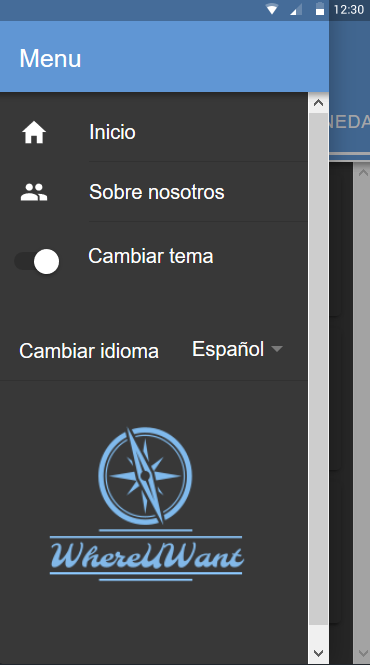
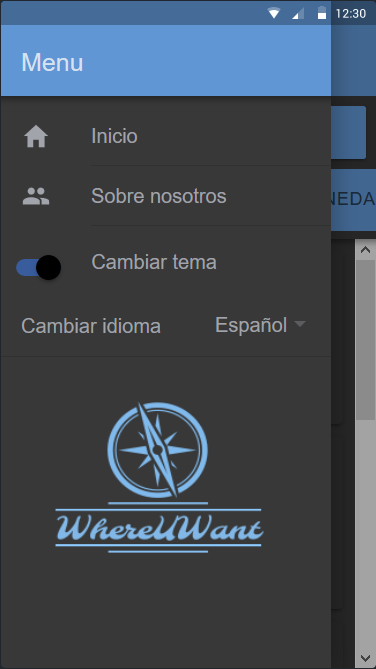
arreglo select
hemos arreglado el select, cambiado algunos estilos del servicio y  variables scss

diff --git a/src/app/home/home.page.html b/src/app/home/home.page.html
@@ -1,10 +1,10 @@
-<ion-header>
+<ion-header >
   <ion-toolbar class="toolbar">
     <ion-buttons slot="start">
       <ion-menu-button class="menu">
         <img src="assets/Menu.png" class="menu" >
       </ion-menu-button>
-      <ion-title style="color: #ffffff" lines="none">
+      <ion-title style="color: var(--ion-title-text)" lines="none">
         WhereUWant 
       </ion-title> 
     </ion-buttons>
@@ -20,11 +20,11 @@
   color="light">
   <ion-segment-button layout="icon-start" value="0" style="--padding-end:0px;--padding-start:0px">
     <ion-icon name="rocket" style="margin-right:1px;zoom:0.8"></ion-icon>
-    <ion-label>{{"Vuelos" | translate}}</ion-label>
+    <ion-label >{{"Vuelos" | translate}}</ion-label>
   </ion-segment-button>
   <ion-segment-button layout="icon-start" value="1" style="--padding-end:2px;--padding-start:0px">
     <ion-icon name="bed" style="margin-right:0px;zoom:0.8"></ion-icon>
-    <ion-label>{{"Hoteles" | translate}}</ion-label>
+    <ion-label >{{"Hoteles" | translate}}</ion-label>
   </ion-segment-button>
  <ion-segment-button layout="icon-start" value="2" style="--padding-end:0px;--padding-start:0px">
         <ion-icon name="cash" style="margin-right:1px;zoom:0.8"></ion-icon>
@@ -51,7 +51,7 @@ style="margin-top:2px">
     <ion-card *ngFor="let item of listadoPanelVuelos;let i = index" >
       <ion-card-header>
         <ion-buttons>
-            <ion-card-title color="primary" >{{item.aerolinea}}</ion-card-title>
+            <ion-card-title style="color: var(--ion-card-text)" >{{item.aerolinea}}</ion-card-title>
         </ion-buttons>
     </ion-card-header>
     <ion-card-content >
@@ -66,7 +66,7 @@ style="margin-top:2px">
       <img src="{{item.foto}}"/>
       <ion-card-header>
         <ion-buttons>
-            <ion-card-title color="primary" >{{item.nombre}}  
+            <ion-card-title style="color: var(--ion-card-text)">{{item.nombre}}  
               {{item.destinoMa | translate}}
             </ion-card-title>
         </ion-buttons>
@@ -82,7 +82,7 @@ style="margin-top:2px">
     <ion-card *ngFor="let item of listadoPanelMoneda;let i = index" >
       <ion-card-header>
         <ion-buttons>
-            <ion-card-title color="primary">{{item.moneda | translate}}</ion-card-title>
+            <ion-card-title  style="color: var(--ion-card-text)">{{item.moneda | translate}}</ion-card-title>
         </ion-buttons>
     </ion-card-header>
     <ion-card-content >

diff --git a/src/app/app.component.html b/src/app/app.component.html
@@ -3,24 +3,24 @@
     <ion-menu>
       <ion-header >
         <ion-toolbar>
-          <ion-title style="color: #ffffff" >Menu</ion-title>
+          <ion-title style="color: var(--ion-title-text)">Menu</ion-title>
         </ion-toolbar>
       </ion-header>
       <ion-content class="prueba1">
         <ion-list>
           <ion-menu-toggle auto-hide="false" *ngFor="let p of appPages">
             <ion-item  [routerDirection]="'root'" [routerLink]="[p.url]">
-              <ion-icon slot="start" color="primary" [name]="p.icon"></ion-icon>
-                <ion-label >
+              <ion-icon slot="start"  style="color: var(--ion-card-text)" [name]="p.icon"></ion-icon>
+                <ion-label  style="color: var(--ion-card-text)" >
                   {{p.title | translate }}
                 </ion-label>
               </ion-item>
             </ion-menu-toggle>
-          <ion-toggle slot="end"  (ionChange)="cambiarTema($event)"></ion-toggle>
-          <ion-label class="temaO" color="primary">{{"Cambiar tema" | translate}}</ion-label>
+          <ion-toggle slot="end"   (ionChange)="cambiarTema($event)"></ion-toggle>
+          <ion-label class="temaO" style="color: var(--ion-card-text)">{{"Cambiar tema" | translate}}</ion-label>
         <ion-item >
-        <ion-label >{{"Cambiar idioma" | translate}}</ion-label>
-          <ion-select [okText]="this.translate.instant('Aceptar')" [cancelText]="this.translate.instant('Cancelar')" placeholder="Idioma" (ionChange)="changeLang($event)">
+        <ion-label  style="color: var(--ion-card-text)" >{{"Cambiar idioma" | translate}}</ion-label>
+          <ion-select  style="color: var(--ion-card-text)"  [okText]="this.translate.instant('Aceptar')" [cancelText]="this.translate.instant('Cancelar')" placeholder="Idioma" (ionChange)="changeLang($event)">
               <ion-select-option selected="selected" value="es">{{"Español" | translate}}</ion-select-option>
               <ion-select-option  value="en">{{"Ingles" | translate }}</ion-select-option>
               <ion-select-option  value="tr">{{"Turco" | translate}}</ion-select-option>

diff --git a/src/app/servicios/tema.service.ts b/src/app/servicios/tema.service.ts
@@ -32,16 +32,26 @@ export class TemaService {
           { themeVariable: '--ion-item-color', value: '#000'},
           { themeVariable: '--ion-color-text', value: '#000'},
           { themeVariable: '--ion-background-color', value: '#ffffff'},
+          { themeVariable: '--ion-header-color', value: '#ffffff'},
+          { themeVariable: '--ion-card-text', value: '#222020'},
+          { themeVariable: '--ion-title-text', value: '#ffffff'}
         ]
       },
       {
 
         name: 'dark',
         styles: [
-          { themeVariable: '--ion-color-primary', value: '#ffffff'},
+          { themeVariable: '--ion-color-primary', value: '#000'},
           { themeVariable: '--ion-item-color', value: '#FFF'},
           { themeVariable: '--ion-color-text', value: '#FFF'},
           { themeVariable: '--ion-background-color', value: '#383838'},
+          { themeVariable: '--ion-header-color', value: '#383838'},
+          { themeVariable: '--ion-card-text', value: '#a2a4ab'},
+          { themeVariable: '--ion-title-text', value: '#f4f5f8cc'}
+
+         
+
+          
          
         ]
       }

diff --git a/src/app/list/list.page.html b/src/app/list/list.page.html
@@ -5,13 +5,13 @@
         <img src="assets/Menu.png" class="menu" >
       </ion-menu-button>
     </ion-buttons>
-      <ion-title style="color: white">
+      <ion-title style="color: var(--ion-title-text)">
        {{"Sobre nosotros" | translate }}
       </ion-title>
   </ion-toolbar>
 </ion-header>
 <ion-content class="texto">
-  <p style="color:var(--ion-color-text)" class="texto"> {{ "whereuwant" | translate}}  </p>
+  <p  style="color: var(--ion-card-text)" class="texto"> {{ "whereuwant" | translate}}  </p>
   <ion-item class="imagen">
     <img src="assets/imagen1.png" >
    </ion-item>

diff --git a/src/theme/variables.scss b/src/theme/variables.scss
@@ -70,7 +70,13 @@
   --ion-color-light-rgb: 244, 244, 244;
   --ion-color-light-contrast: #000000;
   --ion-color-light-contrast-rgb: 0, 0, 0;
-  --ion-color-light-shade: #d7d8da;
+  --ion-color-light-shade: #ffffff;
   --ion-color-light-tint: #f5f6f9;
+  --ion-header-color: #ffffff;
+  --ion-card-text: #222020;
+  --ion-title-text: #ffffff ; 
+  
 }
+
+
  

diff --git a/src/app/home/home.page.scss b/src/app/home/home.page.scss
@@ -58,11 +58,12 @@ ion-slide.swiper-slide {
 }
 
 ion-header{
-  background-color: #ffffff !important;
+
+ background-color: var(--ion-header-color) !important;
 }
 
 .buscador{
 
-  --icon-color : "primary";
+  --icon-color :  var(--ion-title-text);
    
 }

diff --git a/src/app/app.component.scss b/src/app/app.component.scss
@@ -2,6 +2,7 @@
     padding-left:6%;
     padding-top: 10%;
     display: ruby-text;
+  
 }
 
 .cambiarI{
